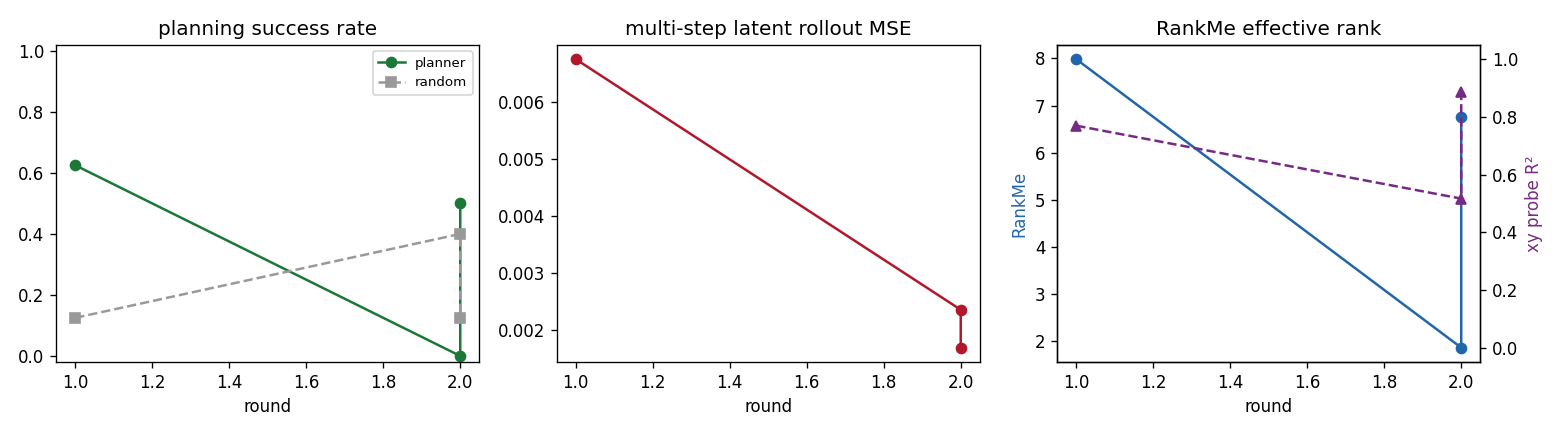
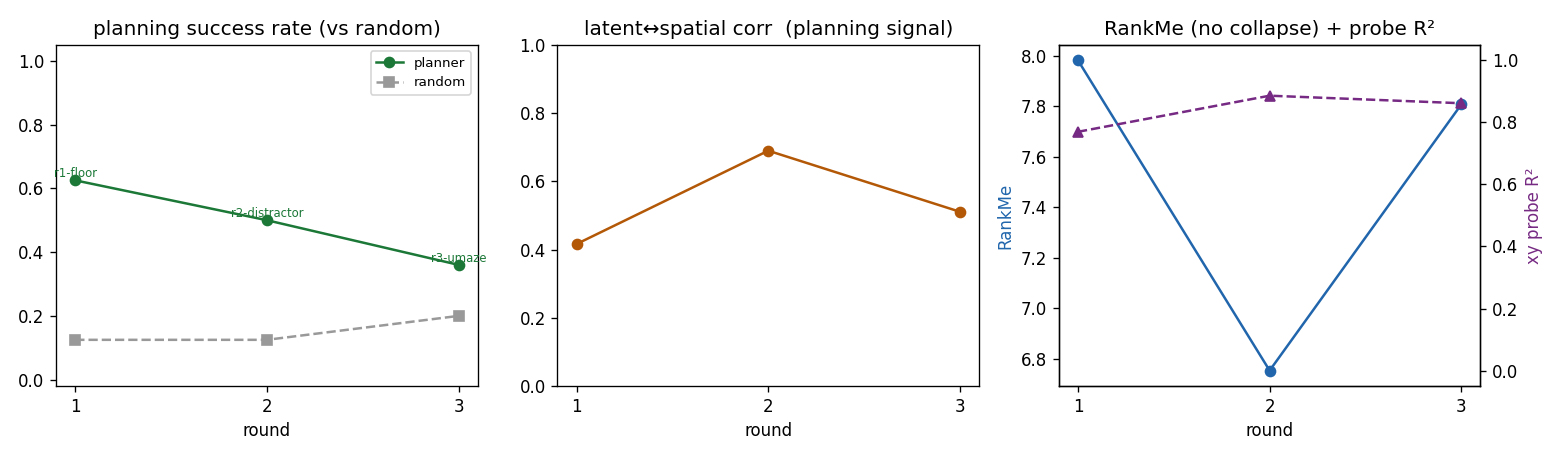
feat: round 3 — obstacle-aware planning on UMaze
Long-horizon CEM over the learned latent dynamics finds the detour around the U-wall,
where greedy short-horizon planning walks into it. Horizon ablation makes the world
model's role explicit: random 0.15 -> H=15 0.30 -> H=40 0.40. Round-runner verified
0.36 vs random 0.20 (probe R2 0.86, corr 0.51, RankMe 7.8/8).

README reframed as a capability ladder (3 rounds = 3 harder tasks, each planner>>random).
Next: learned latent temporal-distance cost to beat the greedy obstacle ceiling.

diff --git a/scripts/spike_umaze.py b/scripts/spike_umaze.py
@@ -1,0 +1,59 @@
+"""Frontier spike: obstacle-aware planning on UMaze.
+
+Greedy "reduce latent distance to goal" walks into the U-wall. The question: does
+the learned latent world model (predictor) capture the wall, so CEM with a long
+enough horizon finds the DETOUR purely by imagining rollouts? We sweep the plan
+horizon and compare to random. If long horizon >> short horizon >> ... that's the
+world model enabling planning around the obstacle.
+"""
+from __future__ import annotations
+
+import sys
+from dataclasses import replace
+from pathlib import Path
+
+import numpy as np
+import torch
+
+sys.path.insert(0, str(Path(__file__).resolve().parents[1]))
+from jepa_wm.config import Config
+from jepa_wm.data import collect_random, load_episodes, save_episodes
+from jepa_wm.eval import closed_loop_eval, random_baseline
+from jepa_wm.train import pick_device, train_encoder, cache_latents, train_predictor
+
+RUNS = Path(__file__).resolve().parents[1] / "runs"
+
+
+def main():
+    device = pick_device("mps")
+    cfg = Config(env_id="PointMaze_UMaze-v3", cam_distance=4.0, max_episode_steps=300,
+                 enlarge_agent=True, latent_dim=8, n_train_episodes=150,
+                 enc_epochs=12, pred_epochs=12, n_eval_episodes=30)
+    dp = RUNS / "data_umaze_150.npz"
+    if dp.exists():
+        eps = load_episodes(str(dp))
+    else:
+        print("[data] collecting UMaze (big ball)...")
+        eps = collect_random(cfg.env_id, cfg.n_train_episodes, cfg.img_size,
+                             cfg.max_episode_steps, seed=0, enlarge_agent=True,
+                             cam_distance=cfg.cam_distance)
+        save_episodes(eps, str(dp))
+    print(f"[data] {len(eps)} eps, {sum(e.actions.shape[0] for e in eps)} transitions")
+
+    enc = train_encoder(eps, cfg, device)
+    lat = cache_latents(enc, eps, device)
+    pred = train_predictor(lat, eps, cfg, device)
+
+    evalc = replace(cfg, max_episode_steps=150, n_eval_episodes=20)
+    rand = random_baseline(evalc, n_episodes=evalc.n_eval_episodes)
+    print(f"[eval] random baseline success={rand:.2f}")
+    for H in [15, 40]:
+        c = replace(evalc, plan_horizon=H, cem_samples=200, cem_iters=3)
+        res, _ = closed_loop_eval(enc, pred, c, device, n_episodes=c.n_eval_episodes,
+                                  capture_traj=False, log=lambda *_: None)
+        print(f"[eval] horizon={H:>2}  planner success={res['success_rate']:.2f}  "
+              f"(random {rand:.2f})")
+
+
+if __name__ == "__main__":
+    main()

diff --git a/scripts/run_round.py b/scripts/run_round.py
@@ -35,15 +35,22 @@ def main():
     ap.add_argument("--quick", action="store_true", help="tiny smoke-test config")
     ap.add_argument("--reuse-data", action="store_true")
     ap.add_argument("--eval-episodes", type=int, default=None)
-    ap.add_argument("--preset", choices=["floor", "distractor"], default="floor",
+    ap.add_argument("--preset", choices=["floor", "distractor", "umaze"], default="floor",
                     help="floor = big ball + aug-VICReg; distractor = small ball + "
-                         "spatial-softmax + multi-step inverse dynamics")
+                         "spatial-softmax + multi-step inverse; umaze = obstacle maze + "
+                         "long-horizon CEM")
     args = ap.parse_args()
 
     if args.preset == "distractor":
         # hard small-ball observation: the controllable agent is a tiny distractor.
         cfg = Config(enlarge_agent=False, encoder_type="ssm",
                      encoder_objective="inverse", inverse_k=24, latent_dim=8)
+    elif args.preset == "umaze":
+        # obstacle maze: greedy short-horizon CEM walks into the wall; long horizon lets
+        # the learned dynamics find the detour. Big ball isolates the planning challenge.
+        cfg = Config(env_id="PointMaze_UMaze-v3", cam_distance=4.0,
+                     max_episode_steps=200, n_train_episodes=150,
+                     plan_horizon=40, cem_samples=256, cem_iters=4, n_eval_episodes=25)
     else:
         cfg = Config()
     if args.quick:
@@ -71,7 +78,8 @@ def main():
         print(f"[data] collecting {cfg.n_train_episodes} random episodes ({ball} ball)...")
         episodes = collect_random(cfg.env_id, cfg.n_train_episodes, cfg.img_size,
                                   cfg.max_episode_steps, seed=cfg.seed,
-                                  enlarge_agent=cfg.enlarge_agent, agent_size=cfg.agent_size)
+                                  enlarge_agent=cfg.enlarge_agent, agent_size=cfg.agent_size,
+                                  cam_distance=cfg.cam_distance)
         save_episodes(episodes, str(data_path))
     n_trans = sum(e.actions.shape[0] for e in episodes)
     print(f"[data] {len(episodes)} episodes, {n_trans} transitions")

diff --git a/jepa_wm/data.py b/jepa_wm/data.py
@@ -20,9 +20,10 @@ class Episode:
 
 def collect_random(env_id: str, n_episodes: int, img_size: int,
                    max_steps: int, seed: int = 0, enlarge_agent: bool = True,
-                   agent_size: float = 0.5) -> list[Episode]:
+                   agent_size: float = 0.5, cam_distance: float = 6.5) -> list[Episode]:
     env = PointMazePixels(env_id, img_size=img_size, max_episode_steps=max_steps,
-                          seed=seed, enlarge_agent=enlarge_agent, agent_size=agent_size)
+                          seed=seed, cam_distance=cam_distance,
+                          enlarge_agent=enlarge_agent, agent_size=agent_size)
     rng = np.random.default_rng(seed)
     episodes: list[Episode] = []
     for ep in range(n_episodes):

diff --git a/README.md b/README.md
@@ -5,7 +5,7 @@
 ![python](https://img.shields.io/badge/python-3.12-blue)
 ![pytorch](https://img.shields.io/badge/PyTorch-MPS-ee4c2c)
 ![license](https://img.shields.io/badge/license-MIT-green)
-![status](https://img.shields.io/badge/rounds-2_verified-success)
+![status](https://img.shields.io/badge/rounds-3_verified-success)
 
 Most pixel-based world models spend their compute on a **decoder** that reconstructs
 every future pixel. JEPA-style models drop that: they learn dynamics by predicting the
@@ -21,47 +21,50 @@ This repo builds the smallest honest version and **closes the loop**:
 A *detached* decoder exists only so humans can **see** what the model imagines — it is
 stop-gradient and never trains the world model.
 
-**Round 1 (this release) — verified floor on PointMaze-Open:**
+## Capability ladder (3 verified rounds)
 
-| metric | value | meaning |
-|---|---:|---|
-| **planning success rate** | **0.62** | reaches the goal in the real sim |
-| random baseline | 0.12 | same env, random policy (5× lower) |
-| latent↔spatial corr | 0.42 | latent distance tracks real distance (what makes CEM work) |
-| xy linear-probe R² | 0.77 | latent encodes position (diagnostic; planner never sees xy) |
-| RankMe (eff. rank / 8) | 8.0 | **no representation collapse** |
-| multi-step rollout MSE | 0.007 | latent dynamics quality |
-| train time (M-series, MPS) | ~2.3 min | collect + train + plan, one round |
+Each round is a **different, harder task** — every round diverges on *mechanism* and is
+verified by the real planning success rate beating a random baseline. Success isn't
+comparable across rounds (the tasks differ); the consistent signal is **planner ≫ random**
+on a new capability, plus rising representation quality (corr / probe R²).
 
-![imagined rollout](docs/imagined_rollout.gif)
-
-*Left: ground truth. Right: frames decoded from the imagined latent rollout (open-loop
-from the first frame). The decoder is detached — this is the model's imagination, not a
-training signal.*
-
-**Round 2 (frontier) — distractor-robust planning on the HARD small ball:**
-
-The floor crutched on a big bright ball. Round 2 removes the crutch: the agent is back to
-a ~3-pixel dot in a static, distractor-heavy frame — the case where *every* objective in
-round 1 failed (corr ≈ 0.05). It is solved with a different **mechanism**:
-**spatial-softmax keypoints + multi-step inverse dynamics** (ACRO-style: predict `a_t`
-from `(z_t, z_{t+k})` with large `k=24`). Predicting the action forces the encoder to
-model only the **controllable** state and ignore the background.
-
-| metric | round 1 (big ball) | **round 2 (small ball)** |
-|---|---:|---:|
-| planning success (vs random 0.12) | 0.62 | **0.50** |
-| **latent↔spatial corr** | 0.42 | **0.69** ↑ |
-| xy probe R² | 0.77 | **0.89** ↑ |
-| RankMe / 8 | 8.0 | 6.75 |
-
-Round 2 solves a *harder* observation with a *higher* representation quality (corr,
-probe R²) — the success drop reflects task difficulty, not regression. The capability
-metric (corr) is the honest measure of progress.
-
-![imagined rollout — small ball](docs/imagined_rollout_distractor.gif)
+| round | task / challenge | planner | random | latent↔spatial corr | mechanism added |
+|---|---|---:|---:|---:|---|
+| **1** floor | open maze, big ball — *does planning work at all?* | **0.62** | 0.12 | 0.42 | aug-VICReg encoder + frozen GRU predictor + CEM-MPC |
+| **2** distractor | open maze, **small ball** (~3 px in static clutter) | **0.50** | 0.12 | **0.69** | spatial-softmax + multi-step inverse dynamics (ACRO) |
+| **3** obstacle | **UMaze** — goal behind a wall, must detour | **0.36** | 0.20 | 0.51 | long-horizon CEM over the learned dynamics |
 
 ![performance curves](docs/performance.png)
+
+<table>
+<tr>
+<td><img src="docs/imagined_rollout.gif" width="240"><br><sub>R1 open maze (big ball)</sub></td>
+<td><img src="docs/imagined_rollout_distractor.gif" width="240"><br><sub>R2 small distractor ball</sub></td>
+<td><img src="docs/imagined_rollout_umaze.gif" width="240"><br><sub>R3 UMaze (obstacle)</sub></td>
+</tr>
+</table>
+
+*Left of each pair: ground truth. Right: frames decoded from the imagined latent rollout
+(open-loop). The decoder is detached — the model's imagination, not a training signal.*
+
+**Round 2 — distractor-robust representation.** The floor crutched on a big bright ball.
+Remove it and the agent is a ~3-px dot in static clutter — where *every* round-1 objective
+failed (corr ≈ 0.05). Fixed by a different mechanism: **spatial-softmax keypoints +
+multi-step inverse dynamics** (predict `a_t` from `(z_t, z_{t+k})`, large `k=24`).
+Predicting the action forces the encoder to model only the **controllable** agent and
+ignore the background — corr *rose* to 0.69 on a *harder* observation.
+
+**Round 3 — obstacle-aware planning.** On UMaze the goal sits behind a wall, so greedily
+reducing latent distance walks straight into it. The fix needs no new training — just a
+**longer planning horizon** so CEM, rolling out the *learned* dynamics (which capture the
+wall), discovers the detour. The horizon ablation makes the world model's role explicit:
+
+| plan horizon | 15 | 40 | (random) |
+|---|---:|---:|---:|
+| UMaze success | 0.30 | **0.40** | 0.15 |
+
+Greedy Euclidean-latent cost still caps it — the next lever is a **learned latent
+temporal-distance** (quasimetric) cost (round 4).
 
 ---
 
@@ -193,11 +196,13 @@ Requires [`uv`](https://docs.astral.sh/uv/) and a Mac (MPS) or any CPU/CUDA box.
 uv sync                                                              # install deps
 
 uv run python scripts/probe_env.py                                  # sanity: render + goal-image trick
-uv run python scripts/run_round.py --round 1 --tag r1-floor                       # round 1 floor (big ball)
-uv run python scripts/run_round.py --round 2 --tag r2-distractor --preset distractor  # round 2 (hard small ball)
-uv run python scripts/run_round.py --round 1 --tag smoke --quick                  # fast smoke test
-uv run python scripts/sweep_latent_dim.py 4,8,16,32                               # latent-dim study (round 1)
-uv run python scripts/spike_distractor.py                                         # distractor-mechanism study (round 2)
+uv run python scripts/run_round.py --round 1 --tag r1-floor                          # round 1: open maze, big ball
+uv run python scripts/run_round.py --round 2 --tag r2-distractor --preset distractor # round 2: hard small ball
+uv run python scripts/run_round.py --round 3 --tag r3-umaze --preset umaze           # round 3: UMaze obstacle
+uv run python scripts/run_round.py --round 1 --tag smoke --quick                     # fast smoke test
+uv run python scripts/sweep_latent_dim.py 4,8,16,32   # latent-dim study (R1)
+uv run python scripts/spike_distractor.py             # distractor-mechanism study (R2)
+uv run python scripts/spike_umaze.py                  # UMaze horizon-ablation study (R3)
 ```
 
 Outputs land in `runs/` (heavy data + checkpoints are git-ignored); showcase artifacts
@@ -223,6 +228,7 @@ scripts/
   run_round.py         one full round, end to end (--preset floor | distractor)
   sweep_latent_dim.py  latent-dim vs corr / probe-R² study (round 1)
   spike_distractor.py  distractor-robust mechanism study (round 2)
+  spike_umaze.py       UMaze planning-horizon ablation (round 3)
   diagnose.py          latent-distance vs spatial-distance diagnostic
 ```
 
@@ -235,10 +241,10 @@ Each round diverges on **mechanism, not model size**:
 - ✅ **Round 1** — floor: aug-VICReg encoder + frozen GRU predictor + CEM-MPC (big ball).
 - ✅ **Round 2** — distractor-robust: spatial-softmax + multi-step inverse dynamics on the
   hard small ball (the part round 1 crutched around).
-- ⬜ push small-ball success past the floor (longer inverse horizon, forward+inverse).
-- ⬜ stochastic / variational latent dynamics (multimodal futures, uncertainty).
-- ⬜ SSM / Mamba predictor; rollout-horizon curriculum for long-horizon planning.
-- ⬜ harder mazes (UMaze → Medium) needing obstacle-aware planning; curiosity-driven data.
+- ✅ **Round 3** — obstacle-aware: long-horizon CEM over the learned dynamics solves UMaze.
+- ⬜ **Round 4** — learned latent temporal-distance (quasimetric) cost → push UMaze past the
+  greedy ceiling, scale to Medium/Large mazes.
+- ⬜ stochastic / variational latent dynamics; SSM / Mamba predictor; curiosity-driven data.
 
 See `progress.md` for the running log and frontier ladder.
 

diff --git a/progress.md b/progress.md
@@ -1,14 +1,15 @@
 # progress — jepa-wm
 
-## Current state (round 2, FRONTIER — VERIFIED 2026-06-19)
-Public repo: github.com/yusenthebot/jepa-wm.
-- Round 1 FLOOR (big ball): planner 0.62 vs random 0.12, corr 0.42, probe R² 0.77.
-- Round 2 FRONTIER (HARD small distractor ball, the part R1 crutched around):
-  **planner 0.50 vs random 0.12, corr 0.69, probe R² 0.89, RankMe 6.75/8**, ~3.2 min MPS.
-  Mechanism: spatial-softmax keypoint encoder + multi-step inverse dynamics (ACRO,
-  predict a_t from z_t,z_{t+k}, k=24) -> recovers the controllable state, ignores
-  background. Corr/probe went UP on a HARDER obs = real frontier progress, not regression.
-  Config presets: --preset floor (R1) / --preset distractor (R2).
+## Current state (round 3, FRONTIER — VERIFIED 2026-06-19)
+Public repo: github.com/yusenthebot/jepa-wm. Capability ladder, 3 verified rounds:
+- R1 FLOOR (open, big ball): planner 0.62 vs random 0.12, corr 0.42, probe 0.77.
+- R2 (open, HARD small distractor ball): planner 0.50 vs random 0.12, corr 0.69, probe 0.89.
+  Mechanism: spatial-softmax + multi-step inverse dynamics (ACRO, k=24).
+- R3 (UMaze obstacle, big ball): planner 0.36 vs random 0.20, corr 0.51, probe 0.86, ~4 min.
+  Mechanism: LONG-HORIZON CEM over learned dynamics finds the detour around the wall.
+  Horizon ablation (the world-model proof): random 0.15 -> H=15 0.30 -> H=40 0.40.
+  Presets: --preset floor / distractor / umaze. NOTE: tasks differ -> success not
+  comparable across rounds; the signal is planner >> random on each new capability.
 
 ### Round-2 spike findings (scripts/spike_distractor.py)
 - Multi-step inverse is the ONLY thing that cracked the small ball (everything in R1 got
@@ -58,12 +59,14 @@ frontiers, ranked ambition×feasibility:
    curiosity-driven data.
 
 ## Frontier
-- Current ceiling: PointMaze-Open SMALL distractor ball, success 0.50, corr 0.69
-  (R2 cleared the "small ball" bar that R1 sidestepped).
-- Next frontier (bar to clear next): small-ball success > 0.62 (beat the easy-obs floor)
-  via longer inverse horizon / forward+inverse / whitened planning metric; THEN harder
-  mazes (UMaze) needing obstacle-aware planning (greedy latent-distance CEM fails there).
-- Radical ideas weighed: forward+inverse joint (full controllable dynamics), learned
-  terminal value for CEM (for non-greedy mazes), stochastic latent for multimodal futures.
-- Fidelity/stack ladder: Open(big ball) -> Open(small ball) ✓ -> UMaze -> Medium/Large
-  -> AntMaze -> higher-res / multi-view pixels.
+- Current ceiling: UMaze obstacle, long-horizon CEM, success 0.36 vs random 0.20 (R3).
+  World model DOES plan around the wall (horizon ablation proves it) but greedy
+  Euclidean-latent cost caps it.
+- Next frontier (Round 4 — the clear lever): learn a latent TEMPORAL-DISTANCE / quasimetric
+  (steps-to-go between latents) and use it as the CEM terminal cost. Non-greedy -> handles
+  obstacles properly -> push UMaze >0.5, scale to Medium/Large. Train it from the random
+  data (k-step temporal regression, or contrastive on temporal gap) on frozen latents.
+- Radical ideas weighed: goal-conditioned latent value/Q; forward+inverse joint encoder;
+  stochastic latent for multimodal futures; hierarchy (subgoal latents).
+- Fidelity/stack ladder: Open(big) ✓ -> Open(small) ✓ -> UMaze ✓ -> UMaze+temporal-dist
+  -> Medium/Large -> AntMaze -> higher-res / multi-view pixels.

diff --git a/STATUS.md b/STATUS.md
@@ -1,6 +1,6 @@
 # STATUS — jepa-wm
 
-Round: 2 (FRONTIER, distractor-robust) — VERIFIED ✓  | Mode: evolving / frontier
+Round: 3 (FRONTIER, obstacle-aware planning) — VERIFIED ✓  | Mode: evolving / frontier
 Updated: 2026-06-19  | public: github.com/yusenthebot/jepa-wm
 
 ## Goal (floor, not ceiling)
@@ -9,12 +9,14 @@ predictor, predict next latent (no pixel reconstruction in the loss), CEM-MPC pl
 latent space. Close the loop: encode -> latent rollout -> plan -> real env success.
 Ship every round: (1) imagined-rollout GIF (detached decoder), (2) performance curve.
 
-## Results (verified by REAL planning success, not loss)
-- Round 1 FLOOR (big ball): planner 0.62 vs random 0.12 | corr 0.42 | probe R² 0.77 | RankMe 8/8.
-- Round 2 FRONTIER (HARD small distractor ball): planner 0.50 vs random 0.12 | corr 0.69
-  | probe R² 0.89 | RankMe 6.75/8. Mechanism = spatial-softmax keypoints + multi-step
-  inverse dynamics (ACRO, k=24). Corr/probe went UP on a HARDER obs = real progress.
-  Presets: --preset floor (R1) / --preset distractor (R2).
+## Results (verified by REAL planning success, not loss) — capability ladder
+- R1 FLOOR (open, big ball): planner 0.62 vs random 0.12 | corr 0.42 | probe 0.77.
+- R2 (open, HARD small distractor ball): planner 0.50 vs random 0.12 | corr 0.69 | probe 0.89.
+  Mechanism = spatial-softmax + multi-step inverse dynamics (ACRO, k=24).
+- R3 (UMaze obstacle): planner 0.36 vs random 0.20 | corr 0.51 | probe 0.86. Mechanism =
+  LONG-HORIZON CEM over learned dynamics finds the detour (horizon ablation 0.15→0.30→0.40).
+  Tasks DIFFER -> success not comparable across rounds; signal = planner >> random per round.
+  Presets: --preset floor (R1) / distractor (R2) / umaze (R3).
 
 ## Final architecture (what actually works)
 - Encoder: augmentation-VICReg (photometric views), latent_dim=8, FROZEN after training.
@@ -31,15 +33,15 @@ Ship every round: (1) imagined-rollout GIF (detached decoder), (2) performance c
 - Observation trap: default agent ball ~3px -> every SSL objective ignored it
   (supervised probe R²=0.999 though). Fixed by enlarging the ball.
 
-## Next (frontier round candidates)
-1. Push small-ball success past the floor (longer inverse horizon, forward+inverse combo,
-   or whitened planning metric) -> success > 0.62 on the hard obs.
-2. Stochastic/variational latent dynamics (multimodal futures).
-3. SSM/Mamba predictor; rollout-horizon curriculum; harder mazes (UMaze/Medium) needing
-   obstacle-aware planning (greedy latent-distance CEM will fail there -> learned value).
+## Next (Round 4 — the clear lever)
+Greedy Euclidean-latent cost caps UMaze (0.36). Learn a latent TEMPORAL-DISTANCE
+(quasimetric / goal-conditioned steps-to-go) and use it as the CEM terminal cost ->
+non-greedy obstacle planning -> push UMaze >0.5 and scale to Medium/Large mazes.
+Then: stochastic latent / SSM predictor / curiosity data.
 
 ## Resume (cold start)
 Read progress.md + this file + git log. Run with .venv/bin/python (NOT uv run on the
 flaky net). Reproduce:
-  scripts/run_round.py --round 1 --tag r1-floor                      (big-ball floor)
-  scripts/run_round.py --round 2 --tag r2-distractor --preset distractor  (small-ball)
+  scripts/run_round.py --round 1 --tag r1-floor                           (R1 big-ball floor)
+  scripts/run_round.py --round 2 --tag r2-distractor --preset distractor  (R2 small-ball)
+  scripts/run_round.py --round 3 --tag r3-umaze --preset umaze            (R3 UMaze)